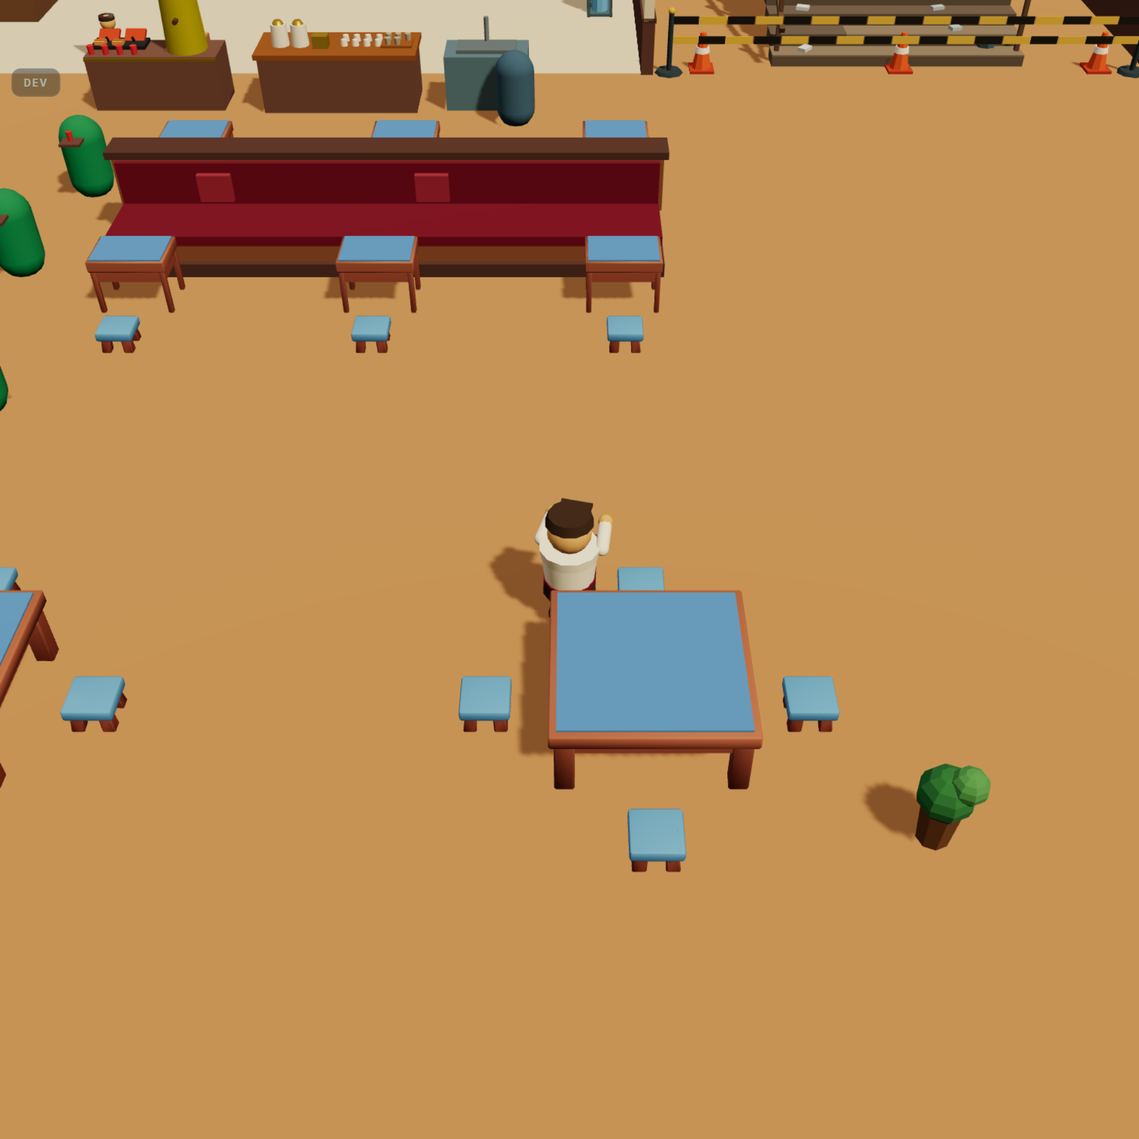
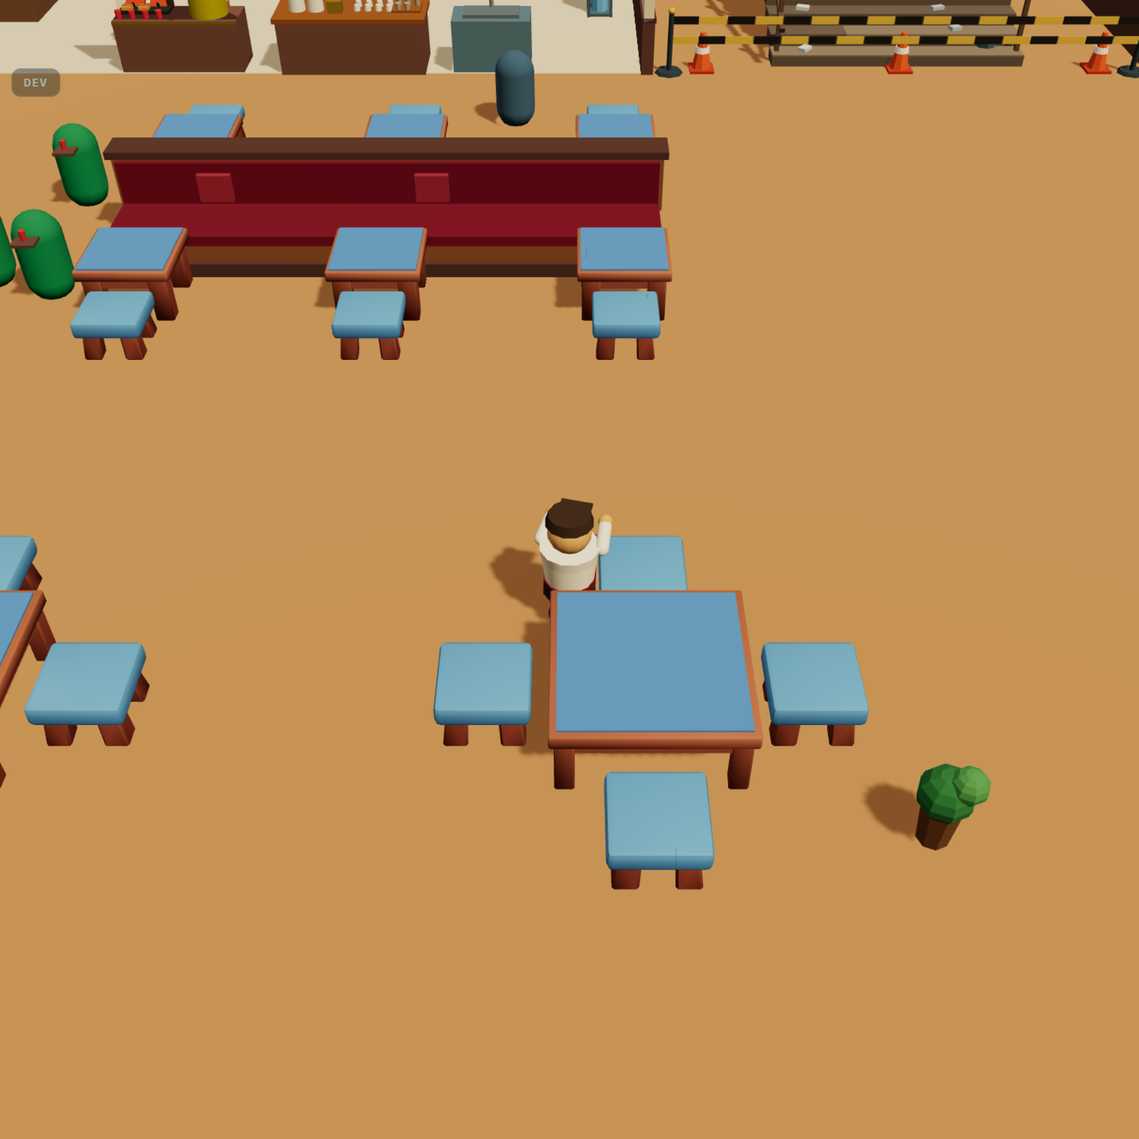
D-074: ikili masa KARE, tabure orani maketten, mutfak esyalari mutfagin icinde
Kullanici geri bildirimi (BM adim 3 kareleri uzerine):
- Ikili (banket) masa: bistro table_medium_long (0,99 x 0,70) elendi -> KARE table_small,
  kademe 1,00 (L0-L2) / 1,20 (L3+). Ust sinir banket adasinin oturak kenarindan turer
  (yari-derinlik 1,25 + masa merkezi 1,85 -> tabla yarisi en cok 0,60). deuceHalf 0,50 -> 0,60.
  Tip farki artik tablanin ORANINDA degil BOYUNDA
- Tabure olcegi 0,6 -> 1,11: maketin stool()'u referans (oturak ustu 0,30 -> 0,555, cap 0,54);
  masa D-073'te 0,795'e cikinca tabure masanin yarisi kadar alcak kalmisti. Greybox yedegi de
  maketin dort parcasina cevrildi (taban diski, ince ayak, genis oturak, minder)
- Servis kumesi mutfagin ICINE: z -8,6 -> -10,3 (tezgahin on yuzu tam bandin hattinda),
  caycinin yurume hatti tezgahin arkasina (-11,3), WAITER_STATION ayni hizada.
  ERISIM DEGISMEDI: tezgah da oyuncunun en yakin noktasi da ayni miktarda kaydi (0,85 br sabit)
- Degismez yeniden yazildi: 'servis kumesi alanin icinde' iki rolu karistiriyordu ->
  aktorun bastigi noktalar alanin ICINDE; obje govdeleri alana DEGER + pickupRadius icinde

vitest 281/281 - smoke 28/28 - tsc + eslint + build temiz

diff --git a/src/components/three/tableLook.ts b/src/components/three/tableLook.ts
@@ -16,17 +16,27 @@ import type { TableKind } from '../../config/economy.config';
 // büyük: ön çeyreğin dörtlü ÇAY masası `teaTable` **1,75 × 1,75 @ y 0,75**, şeridin ikili kafe
 // masası `cafeTable2` **1,00 × 1,00 @ y 0,75**. Oyun ikisini de ~0,9'a indirmişti (fark kayboldu).
 // Maket BİTMİŞ HÂLDİR (D-070): en üst kademe maketin ölçüsüdür, alt kademe ondan geriye türer.
-const TEA_TABLE_S: Vec3 = [1.1, 0.75, 1.1]; // table_small (native 1) → 1,10 tabla · L0-L2
+const TEA_TABLE_S: Vec3 = [1.1, 0.75, 1.1]; // table_small (native 1) → 1,10 tabla · DÖRTLÜ L0-L2
 const TEA_TABLE_M: Vec3 = [0.875, 0.75, 0.875]; // table_medium (native 2) → **1,75** · dörtlü L3+
-// table_medium_long — İKİLİNİN L3+ hâli: bistro masası, banka PARALEL uzar (0,99 × 0,70);
-// maketin `cafeTable2`'si 1,00 kare, uzun kenar birebir tutuyor. Native 3 × 1 × 2 → x 0,33 · z 0,35.
-const TEA_TABLE_L: Vec3 = [0.33, 0.75, 0.35];
+
+// İKİLİ MASA — KARE (kullanıcı 2026-09-07): *"banketlerin masaları ideal boyda olsun ama KARE
+// olsun; küçük dememin sebebi dikdörtgen olmasıydı, diğer tek masalar kadar büyük olmasın"*.
+// Önceki hâli `table_medium_long`du (0,99 × 0,70): bistro mantığı doğruydu ama dikdörtgen tabla
+// 1,75'lik dörtlünün yanında hem küçük hem çarpık okundu. İkili artık dörtlüyle AYNI asseti
+// (kare `table_small`) kullanır, yalnız daha küçük kalır — tip farkını tabla ORANI değil BOYU söyler.
+// Kademeler: L0-L2 **1,00** (maketin `cafeTable2`'si birebir) → L3+ **1,20**.
+// Üst sınırı BANKET geometrisi veriyor: adanın görsel yarı-derinliği 1,25 ve masa merkezi ondan
+// 1,85'te; tabla yarısı 0,60'ı geçerse tabla adanın oturağının ÜSTÜNE biner (layout-b32 bekçisi).
+// 1,20 hem o sınırda durur hem oranı tutar (dörtlü 1,75'i dört kişiye verir; ikiye düşen ≈ 1,24).
+const DEUCE_TABLE_S: Vec3 = [1.0, 0.75, 1.0];
+const DEUCE_TABLE_L: Vec3 = [1.2, 0.75, 1.2];
 
 // Örtü (tabla ÜSTÜ) plakası. { y: üst yüzey, hx/hz: yarı-genişlik }. Maket örtüsü tablanın
 // %92,6'sı (1,62 / 1,75) — oran her kademede korunur.
 const TEA_CLOTH_S = { y: 0.75, hx: 0.51, hz: 0.51 };
 const TEA_CLOTH_M = { y: 0.75, hx: 0.81, hz: 0.81 };
-const TEA_CLOTH_L = { y: 0.75, hx: 0.46, hz: 0.32 };
+const DEUCE_CLOTH_S = { y: 0.75, hx: 0.463, hz: 0.463 };
+const DEUCE_CLOTH_L = { y: 0.75, hx: 0.556, hz: 0.556 };
 
 export interface TableLook {
   key: 'table_small' | 'table_medium' | 'table_medium_long';
@@ -35,15 +45,17 @@ export interface TableLook {
 }
 
 /**
- * Sv4 (L3) basamağı "masa BÜYÜR" idi ve dörtlü masa için doğruydu: iki koltuk dörde çıkarken
- * tabla da büyür. Banket ikilisi dört kişilik OLMAZ (sırtında ada, karşısında tek sandalye var) —
- * o basamakta büyüyecek şeyi kaybetmesin diye tabla KARE'den BİSTROYA döner: banka paralel uzar,
- * derinliği azalır. İki tipte de L3 gözle görülür TEK bir değişimdir (D-019 okunabilirlik), ama
- * ikili masa hiçbir seviyede dört sandalye taşıyormuş gibi görünmez.
+ * Sv4 (L3) basamağı "masa BÜYÜR": iki tipte de tabla büyür, ikisi de KARE kalır. İkili masa
+ * hiçbir seviyede dörtlünün tablasını (1,75 = dört kişilik okuması) almaz — fark boyda durur:
+ * 1,00 → 1,20 ↔ 1,10 → 1,75. Böylece L3 iki tipte de gözle görülür TEK bir değişim (D-019).
  */
 export function tableLook(kind: TableKind, level: number): TableLook {
-  if (level < 3) return { key: 'table_small', scale: TEA_TABLE_S, cloth: TEA_CLOTH_S };
-  return kind === 'deuce'
-    ? { key: 'table_medium_long', scale: TEA_TABLE_L, cloth: TEA_CLOTH_L }
+  if (kind === 'deuce') {
+    return level < 3
+      ? { key: 'table_small', scale: DEUCE_TABLE_S, cloth: DEUCE_CLOTH_S }
+      : { key: 'table_small', scale: DEUCE_TABLE_L, cloth: DEUCE_CLOTH_L };
+  }
+  return level < 3
+    ? { key: 'table_small', scale: TEA_TABLE_S, cloth: TEA_CLOTH_S }
     : { key: 'table_medium', scale: TEA_TABLE_M, cloth: TEA_CLOTH_M };
 }

diff --git a/src/game/layout.ts b/src/game/layout.ts
@@ -418,12 +418,23 @@ const PLACE_LEFT_WALL: ServicePlace = {
  */
 const PLACE_BACK_BAND: ServicePlace = {
   areaIndex: 2,
-  station: [-13.0, 0, -8.6],
+  /*
+   * MUTFAK EŞYALARI MUTFAĞIN İÇİNDE (kullanıcı 2026-09-07: *"mutfak eşyaları şu an mutfak
+   * dışında, onları da koy"*). BM adım 3'e kadar bant katı bir kütleydi, servis kümesi de
+   * onun 1,2 br ÖNÜNDE salonun zemininde duruyordu (z = −8,6). Bant maketin odalarına dönünce
+   * o küme mutfağın dışında kalmış oldu.
+   * Küme 1,70 geri alındı: tezgâhın ÖN YÜZÜ artık tam bandın hattında (z = −9,8 = −10,3 + 0,5),
+   * yani maketin kurgusu — *"semaver ve bardaklar müşterinin gördüğü yerde, hazırlık arkada"*.
+   * ERİŞİM DEĞİŞMEDİ: hem tezgâh hem oyuncunun durabildiği en yakın nokta aynı miktarda kaydı,
+   * aradaki 0,85 br sabit (`serving.pickupRadius` 1,6). Çaycının yürüme hattı da tezgâhın
+   * ARKASINA, mutfağın içine geçti.
+   */
+  station: [-13.0, 0, -10.3],
   rot: 0,
   half: [1.6, 0.5],
-  pickup: [-13.0, 0, -7.6],
+  pickup: [-13.0, 0, -9.3],
   upgradeSpot: [-15.8, 0, -8.0],
-  dish: [-7.4, 0, -8.6],
+  dish: [-7.4, 0, -10.3],
   dishRot: 0,
   dishHalf: [1.0, 0.5],
   /* BOŞTA BEKLEME NOKTALARI (B6a'da taşındı). Eski değerler (−11,0 / −7,2) ve (−5,6 / −7,2)
@@ -441,7 +452,7 @@ const PLACE_BACK_BAND: ServicePlace = {
      yükseltme noktasına 1,4 br'den yakın olamaz. */
   waiterHome: [-14.6, 0, -6.6],
   dishwasherHome: [-6.9, 0, -7.75],
-  staffWalk: { a: [-14.6, 0, -9.6], b: [-11.4, 0, -9.6], face: 0 },
+  staffWalk: { a: [-14.6, 0, -11.3], b: [-11.4, 0, -11.3], face: 0 },
 };
 
 /**
@@ -456,7 +467,7 @@ const PLACE_BACK_BAND: ServicePlace = {
  * Arka bant açılmadan (areasOpen < 3) ortada durmaz.
  */
 export const WAITER_STATION = {
-  pos: [-9.9, 0, -8.6] as Vec3,
+  pos: [-9.9, 0, -10.3] as Vec3, // tezgâhla AYNI hizada (BM adım 3: küme mutfağın içine geçti)
   half: [1.3, 0.5] as readonly [number, number],
   rot: 0,
 } as const;
@@ -564,7 +575,7 @@ export const LAYOUT = {
   // BM adım 2 (D-073): iki mobilya dili, iki footprint. Dörtlü ÇAY masası maketin `teaTable`'ı
   // (1,75 → yarı 0,875); şeridin İKİLİ kafe masası `cafeTable2` (1,00 → yarı 0,50).
   tableHalf: [0.875, 0.875] as [number, number], // dörtlü (four) — REACH_TABLE bundan türer
-  deuceHalf: [0.5, 0.5] as [number, number], // ikili (deuce) — banket adasının masası
+  deuceHalf: [0.6, 0.6] as [number, number], // ikili (deuce) — kare 1,20 (L3+); banket adasının masası
   chairHalf: [0.3, 0.3] as [number, number], // tabure (maket yarıçapı 0,27) + oturan müşteri
   // Sandalye ofsetleri (Y2 tek kaynak): Tables.tsx görsel sandalyeyi, store koltuk pozisyonunu
   // (ALL_TABLES.seats) AYNI listeden türetir — görsel sandalye = oturulabilir koltuk.

diff --git a/tests/table-b5a.test.ts b/tests/table-b5a.test.ts
@@ -111,20 +111,35 @@ describe('B5a — MASA TİPİ: dörtlü küme ↔ banket ikilisi', () => {
     expect(seats).toBe(56);
   });
 
-  it('GÖRÜNÜŞ: L3’te dörtlü BÜYÜR (kare), ikili BİSTROYA döner (uzun) — aynı basamak, farklı geometri', () => {
+  it('GÖRÜNÜŞ: L3’te iki tip de BÜYÜR ve ikisi de KARE kalır — fark tablanın ORANINDA değil BOYUNDA', () => {
+    // Kullanıcı 2026-09-07: *"banketlerin masaları ideal boyda olsun ama KARE olsun; küçük
+    // dememin sebebi dikdörtgen olmasıydı, diğer tek masalar kadar büyük olmasın"*.
+    // Eski kurgu ikiliyi L3'te bistroya (0,99 × 0,70) çeviriyordu; dikdörtgen tabla 1,75'lik
+    // dörtlünün yanında hem küçük hem çarpık okundu.
     for (const k of ['four', 'deuce'] as const) {
       expect(tableLook(k, 0).key).toBe('table_small');
       expect(tableLook(k, 2).key).toBe('table_small');
+      // HER seviyede kare: örtü yarı-ölçüleri eşit, tabla ölçeği x = z.
+      for (const l of [0, 2, 3, 4]) {
+        const look = tableLook(k, l);
+        expect(look.cloth.hx, `${k} L${l} örtü`).toBeCloseTo(look.cloth.hz, 6);
+        expect(look.scale[0], `${k} L${l} tabla`).toBeCloseTo(look.scale[2], 6);
+      }
     }
     expect(tableLook('four', 3).key).toBe('table_medium');
-    expect(tableLook('deuce', 3).key).toBe('table_medium_long');
-    // İkili masa hiçbir seviyede kare-büyük tablayı (dört kişilik okuması) almaz.
+    // İkili masa hiçbir seviyede dörtlünün tablasını (1,75 = dört kişilik okuması) almaz.
     for (const l of [0, 1, 2, 3, 4]) expect(tableLook('deuce', l).key).not.toBe('table_medium');
-    // Bistro tablası banka PARALEL uzar: eni derinliğinden büyük.
-    const long = tableLook('deuce', 3);
-    expect(long.cloth.hx).toBeGreaterThan(long.cloth.hz);
-    // ...ve `LAYOUT.tableHalf` collision kutusunun dışına taşmaz (native table_medium_long eni 3).
-    expect(long.scale[0] * 3).toBeLessThanOrEqual(LAYOUT.tableHalf[0] * 2);
+    // Kademeler: ikili 1,00 → 1,20 · dörtlü 1,10 → 1,75. İkili her seviyede dörtlüden KÜÇÜK,
+    // ama L3'te kendi L0'ından büyük (basamak gözle görülür).
+    const side = (k: 'four' | 'deuce', l: number) => tableLook(k, l).scale[0] * (tableLook(k, l).key === 'table_medium' ? 2 : 1);
+    expect(side('deuce', 0)).toBeCloseTo(1.0, 6);
+    expect(side('deuce', 3)).toBeCloseTo(1.2, 6);
+    expect(side('four', 0)).toBeCloseTo(1.1, 6);
+    expect(side('four', 3)).toBeCloseTo(1.75, 6);
+    for (const l of [0, 3]) expect(side('deuce', l)).toBeLessThan(side('four', l));
+    expect(side('deuce', 3)).toBeGreaterThan(side('deuce', 0));
+    // İkilinin tablası BANKET adasının oturağının üstüne binmez (collision yarısı = tabla yarısı).
+    expect(LAYOUT.deuceHalf[0]).toBeCloseTo(side('deuce', 3) / 2, 6);
   });
 });
 

diff --git a/src/components/three/Tables.tsx b/src/components/three/Tables.tsx
@@ -24,17 +24,33 @@ export { tableLook } from './tableLook';
 //   L4 #7 chair_C. Örtü L2'den. Masa L0-L2 TEKLİ küçük (sandalyeler ORTALI), L3'te 4 kişilik uzun.
 //   Renkler (mavi asset minderleri) sonra ayarlanacak.
 const KAY = '/assets/models/kaykit-furniture-bits/';
-const STOOL_S = 0.6; // chair_stool_wood
+// TABURE ÖLÇEĞİ — kullanıcı 2026-09-07: *"diğer masaların tabureleri orantı olarak çok küçük"*.
+// Sebep ölçüldü: KayKit `chair_stool` native 0,75 × **0,50** (en × yükseklik); 0,6 ölçekte
+// oturak yüksekliği **0,30** kalıyordu. Masa D-073'te 1,75 × 0,75'e büyümüş, tablanın üstü
+// **0,795**'e çıkmıştı → oturakla tabla arası 0,50, yani tabure masanın yarısı kadar alçak.
+// Referans maketin `stool()`'u: oturak üstü **0,555**, çapı 0,54. Ölçek buradan türer:
+// 0,555 / 0,50 = **1,11** → tabure 0,83 × 0,555; tabla üstüyle arası 0,24 (gerçek tabure oranı).
+const STOOL_S = 1.11; // chair_stool / chair_stool_wood — maketin oturak yüksekliğine (0,555) kilitli
 // Tabure (gerçek kıraathane formu): silindir gövde + kırmızı minder. Koltuk kutusu emekli.
 function Stool({ x, z }: { x: number; z: number }) {
   return (
     <group position={[x, 0, z]}>
-      <mesh castShadow position={[0, 0.21, 0]}>
-        <cylinderGeometry args={[0.17, 0.2, 0.42, 10]} />
+      {/* Maketin `stool()`'u birebir: taban diski · ince ayak · geniş oturak · minder.
+          Oturak üstü 0,555 (tabla üstü 0,795 ile arası 0,24), çap 0,54. */}
+      <mesh castShadow position={[0, 0.03, 0]}>
+        <cylinderGeometry args={[0.23, 0.23, 0.04, 10]} />
+        <meshStandardMaterial color={PALETTE.stool} />
+      </mesh>
+      <mesh castShadow position={[0, 0.22, 0]}>
+        <cylinderGeometry args={[0.07, 0.07, 0.42, 8]} />
         <meshStandardMaterial color={PALETTE.stool} />
       </mesh>
       <mesh castShadow position={[0, 0.45, 0]}>
-        <cylinderGeometry args={[0.19, 0.19, 0.07, 10]} />
+        <cylinderGeometry args={[0.27, 0.25, 0.11, 10]} />
+        <meshStandardMaterial color={PALETTE.stool} />
+      </mesh>
+      <mesh castShadow position={[0, 0.53, 0]}>
+        <cylinderGeometry args={[0.25, 0.25, 0.05, 10]} />
         <meshStandardMaterial color={PALETTE.stoolCushion} />
       </mesh>
     </group>

diff --git a/tests/layout-b31.test.ts b/tests/layout-b31.test.ts
@@ -23,6 +23,7 @@ import {
   MAX_SERVICES,
 } from '../src/game/store';
 import { clampToOpenAreas, getNavGrid, REACH_TABLE } from '../src/game/layout';
+import { economyConfig } from '../src/config/economy.config';
 import { findNavPath } from '../src/game/nav';
 
 const SP = (areasOpen: number) => servicePlace(areasOpen);
@@ -121,11 +122,28 @@ describe('B3-1 — servis 3. Alan açılınca ARKA BANDA taşınır (D-062)', ()
       expect(openServices(areasOpen)).toEqual([THE_SERVICE]);
       expect(serviceInArea(sp.areaIndex, areasOpen)).toBe(THE_SERVICE);
       const ab = LAYOUT.areaBounds[sp.areaIndex];
-      for (const pt of [sp.station, sp.dish, sp.pickup, sp.upgradeSpot, sp.waiterHome, sp.dishwasherHome]) {
+      // AKTÖRÜN BASTIĞI noktalar alanın İÇİNDE olmak zorunda (yürünemeyen yerde beklenemez).
+      for (const pt of [sp.pickup, sp.upgradeSpot, sp.waiterHome, sp.dishwasherHome]) {
         expect(pt[0]).toBeGreaterThanOrEqual(ab.minX);
         expect(pt[0]).toBeLessThanOrEqual(ab.maxX);
         expect(pt[2]).toBeGreaterThanOrEqual(ab.minZ);
         expect(pt[2]).toBeLessThanOrEqual(ab.maxZ);
+      }
+      // OBJE GÖVDELERİ (tezgâh · bulaşık) alana DEĞMEK zorunda, içinde durmak zorunda değil:
+      // BM adım 3'te küme mutfağın içine geçti, ön yüzü bandın hattında kaldı — bir tezgâhın
+      // gövdesinin duvarın içinde olması normaldir, ERİŞİLEMEZ olması değil. Asıl kural bu:
+      // alanın tezgâha en yakın noktasından tezgâh `serving.pickupRadius` içinde kalmalı.
+      for (const [c, h] of [
+        [sp.station, sp.half],
+        [sp.dish, sp.dishHalf],
+      ] as const) {
+        expect(c[0] + h[0]).toBeGreaterThanOrEqual(ab.minX);
+        expect(c[0] - h[0]).toBeLessThanOrEqual(ab.maxX);
+        expect(c[2] + h[1]).toBeGreaterThanOrEqual(ab.minZ);
+        expect(c[2] - h[1]).toBeLessThanOrEqual(ab.maxZ);
+        const nx = Math.max(ab.minX, Math.min(ab.maxX, c[0]));
+        const nz = Math.max(ab.minZ, Math.min(ab.maxZ, c[2]));
+        expect(Math.hypot(nx - c[0], nz - c[2])).toBeLessThan(economyConfig.serving.pickupRadius);
       }
     }
   });

diff --git a/tests/logic.test.ts b/tests/logic.test.ts
@@ -3399,11 +3399,28 @@ describe('Faz B1 — dünya modeli: ALAN · SERVİS · MASA · ODA ayrışması'
       // Servisin durduğu alan o an AÇIK olmak zorunda (yoksa erişilemez bir tezgâh olurdu).
       expect(sp.areaIndex).toBeLessThan(areasOpen);
       const ab = LAYOUT.areaBounds[sp.areaIndex];
-      for (const pt of [sp.station, sp.dish, sp.pickup, sp.upgradeSpot, sp.waiterHome, sp.dishwasherHome]) {
+      // AKTÖRÜN BASTIĞI noktalar alanın İÇİNDE olmak zorunda (yürünemeyen yerde beklenemez).
+      for (const pt of [sp.pickup, sp.upgradeSpot, sp.waiterHome, sp.dishwasherHome]) {
         expect(pt[0]).toBeGreaterThanOrEqual(ab.minX);
         expect(pt[0]).toBeLessThanOrEqual(ab.maxX);
         expect(pt[2]).toBeGreaterThanOrEqual(ab.minZ);
         expect(pt[2]).toBeLessThanOrEqual(ab.maxZ);
+      }
+      // OBJE GÖVDELERİ (tezgâh · bulaşık) alana DEĞMEK zorunda, içinde durmak zorunda değil:
+      // BM adım 3'te küme mutfağın içine geçti, ön yüzü bandın hattında kaldı — bir tezgâhın
+      // gövdesinin duvarın içinde olması normaldir, ERİŞİLEMEZ olması değil. Asıl kural bu:
+      // alanın tezgâha en yakın noktasından tezgâh `serving.pickupRadius` içinde kalmalı.
+      for (const [c, h] of [
+        [sp.station, sp.half],
+        [sp.dish, sp.dishHalf],
+      ] as const) {
+        expect(c[0] + h[0]).toBeGreaterThanOrEqual(ab.minX);
+        expect(c[0] - h[0]).toBeLessThanOrEqual(ab.maxX);
+        expect(c[2] + h[1]).toBeGreaterThanOrEqual(ab.minZ);
+        expect(c[2] - h[1]).toBeLessThanOrEqual(ab.maxZ);
+        const nx = Math.max(ab.minX, Math.min(ab.maxX, c[0]));
+        const nz = Math.max(ab.minZ, Math.min(ab.maxZ, c[2]));
+        expect(Math.hypot(nx - c[0], nz - c[2])).toBeLessThan(economyConfig.serving.pickupRadius);
       }
     }
   });

diff --git a/memory-bank/decisions.md b/memory-bank/decisions.md
@@ -1806,3 +1806,51 @@ footprint'ten türer · banket-masa çakışması ikili footprint'le ölçülür
 'ceviz'e taşındı) + "salon zemini DÜZ" testi eklendi. **280/280 yeşil, tsc temiz.**
 
 **Rapor:** `docs/olcu-plan-karar.html` — https://claude.ai/code/artifact/a17055c1-de75-4017-9036-54a893c1992b
+
+---
+
+## D-074 — İKİLİ MASA KARE · TABURE ORANI MAKETTEN · MUTFAK EŞYALARI MUTFAĞIN İÇİNDE (2026-09-08 gece)
+
+**Kullanıcı (BM adım 3 kareleri geldikten sonra):** *"banketlerin masaları küçük… o diğer masaların
+tabureleri orantı olarak çok küçük geldi gözüme. ek olarak mutfak eşyaları şu an mutfak dışında,
+onları da koy… banketlerin masaları ideal boyda olsun ama KARE olsun; küçük dememin sebebi
+dikdörtgen olmasıydı, diğer tek masalar kadar büyük olmasın."*
+
+### 1 · İkili (banket) masa KARE
+`table_medium_long` (0,99 × 0,70 bistro) elendi. B5a'nın gerekçesi doğruydu — ikili masa dört
+kişilik okunmamalı — ama çözümü yanlış kanaldan veriyordu: farkı tablanın ORANIYLA anlatıyordu ve
+dikdörtgen tabla 1,75'lik dörtlünün yanında hem küçük hem çarpık okunuyordu. Fark artık BOYDA:
+
+| | L0-L2 | L3+ |
+|---|---|---|
+| dörtlü | 1,10 | **1,75** (maketin `teaTable`'ı) |
+| ikili | **1,00** (maketin `cafeTable2`'si) | **1,20** |
+
+1,20'nin üst sınırı geometriden: banket adasının görsel yarı-derinliği 1,25, masa merkezi ondan
+1,85'te → tabla yarısı 0,60'ı geçerse tabla adanın oturağının ÜSTÜNE biner (`layout-b32` bekçisi).
+`deuceHalf` 0,50 → **0,60**.
+
+### 2 · Tabure oranı maketin `stool()`'undan
+KayKit `chair_stool` native 0,75 × **0,50**; ölçek 0,6'da oturak yüksekliği **0,30** kalıyordu.
+Masa D-073'te 0,75'e çıkıp tablanın üstü 0,795'e gelince tabure masanın yarısı kadar alçak kaldı.
+Maketin `stool()`'u: oturak üstü **0,555**, çap 0,54. Ölçek buradan kilitlendi: 0,555 / 0,50 =
+**1,11**. Greybox yedeği de maketin dört parçasına (taban diski · ince ayak · geniş oturak · minder)
+çevrildi — asset yoksa silüet aynı kalsın.
+
+### 3 · Servis kümesi mutfağın İÇİNE
+Bant katı kütleyken servis kümesi onun 1,2 br önünde, salonun zemininde duruyordu (z = −8,6).
+BM adım 3 bandı odalara çevirince küme mutfağın DIŞINDA kaldı. Küme 1,70 geri alındı
+(z = −10,3): tezgâhın ön yüzü tam bandın hattında (−9,8) — maketin kurgusu, *"semaver ve bardaklar
+müşterinin gördüğü yerde, hazırlık arkada"*. Çaycının yürüme hattı tezgâhın arkasına geçti
+(−9,6 → −11,3). `WAITER_STATION` tezgâhla aynı hizada kaldı.
+**ERİŞİM DEĞİŞMEDİ:** hem tezgâh hem oyuncunun durabildiği en yakın nokta aynı miktarda kaydı,
+aradaki 0,85 br sabit (`serving.pickupRadius` 1,6).
+
+**Bunun açtığı test sorusu:** "servis kümesi AÇIK bir alanın İÇİNDE" değişmezi iki farklı rolü tek
+kurala bağlıyordu. Ayrıldı: **aktörün bastığı noktalar** (pickup · yükseltme · personel köşeleri)
+alanın içinde olmak zorunda; **obje gövdeleri** (tezgâh · bulaşık) alana DEĞMEK zorunda ve alanın
+en yakın noktasından `pickupRadius` içinde kalmak zorunda. Bir tezgâhın gövdesinin duvarın içinde
+olması normaldir, ERİŞİLEMEZ olması değil.
+
+**Testler:** 281/281 yeşil (3'ü yeniden yazıldı, biri "ikili her seviyede KARE" iddiasıyla
+güçlendirildi). tsc + eslint + build temiz, smoke 28/28.

diff --git a/memory-bank/activeContext.md b/memory-bank/activeContext.md
@@ -59,6 +59,20 @@ DEV kolu: `window.__devCam({ fov, distMul })` · kareler `node tools/shot-fov.mj
 - Önerim: **50 kalsın** — maketin 34'ü bir gözlem aracının tercihi; D-072'nin kuralı ölçüyü
   DONDURMAK, ölçülmemiş bir kazanç için değiştirmek değil.
 
+### Kullanıcı geri bildirimi ✅ (D-074 — aynı gece uygulandı)
+*"banketlerin masaları küçük… tabureler orantı olarak çok küçük… mutfak eşyaları mutfak dışında…
+banket masaları ideal boyda ama KARE olsun"*
+1. **İkili masa kare:** bistro (0,99 × 0,70) elendi → 1,00 (L0-L2) / **1,20** (L3+). Üst sınır
+   geometriden: banket adasının görsel yarı-derinliği 1,25, masa merkezi 1,85 → tabla yarısı
+   0,60'ı geçerse tabla oturağın üstüne biner. `deuceHalf` 0,60.
+2. **Tabure ölçeği 0,6 → 1,11:** maketin `stool()`'u referans (oturak üstü 0,555, çap 0,54);
+   eskiden oturak 0,30'daydı, tabla üstü 0,795 → tabure masanın yarısı kadar alçaktı.
+3. **Servis kümesi mutfağın içine:** z −8,6 → −10,3 (tezgâhın ön yüzü bandın hattında),
+   çaycı hattı −11,3. Erişim sabit (0,85 br). `WAITER_STATION` da aynı hizada.
+4. **Değişmez ayrıldı:** aktörün bastığı noktalar alanın İÇİNDE · obje gövdeleri alana DEĞER
+   ve alanın en yakın noktasından `serving.pickupRadius` içinde kalır.
+**281/281 · smoke 28/28 · tsc + eslint + build temiz.** Kareler yenilendi (`bmm-*`).
+
 ### BM adım 3 ✅ (arka bant + odalar)
 Bant kütle değil **maketin odaları**: bina kabuğu (`BAND_SHELL`, 3,2, salonun duvarıyla aynı bileşen)
 + ara duvarlar 2,2 (x ∓4,6) + servis köşesi (fayans zemin · cezve ocağı · tezgâh · raflar · bulaşık ·

diff --git a/memory-bank/progress.md b/memory-bank/progress.md
@@ -1748,6 +1748,17 @@ tek yönlü sıra. Ölçü hedefi kullanıcı kararıyla **A**: kat 34 × 34, du
     yeniden ölçülmeli. Gölge kamerası (ortografik ±30) etkilenmiyor.
   - **Önerilen: fov 50 KALSIN** (maketin 34'ü bir gözlem aracının tercihi; D-072'nin kuralı ölçüyü
     dondurmak, ölçülmemiş bir kazanç için değiştirmek değil). Karar kullanıcının.
+- ✅ **BM adım 3 düzeltmeleri (D-074, kullanıcı geri bildirimi):**
+  - **İkili (banket) masa KARE oldu:** bistro `table_medium_long` (0,99 × 0,70) elendi; kademe
+    1,00 → **1,20** (üst sınırı banket adasının oturak kenarı verir). Tip farkı artık tablanın
+    oranında değil BOYUNDA: ikili 1,00/1,20 ↔ dörtlü 1,10/1,75. `deuceHalf` 0,50 → 0,60.
+  - **Tabure oranı maketin `stool()`'una kilitlendi:** ölçek 0,6 → **1,11** (oturak üstü 0,30 →
+    **0,555**, maketin sayısı). Greybox yedeği de maketin dört parçasına çevrildi.
+  - **Servis kümesi mutfağın İÇİNE:** z −8,6 → **−10,3**, tezgâhın ön yüzü tam bandın hattında;
+    çaycının yürüme hattı tezgâhın arkasına (−11,3). Erişim değişmedi (0,85 br sabit).
+  - **Değişmez yeniden yazıldı:** "servis kümesi alanın içinde" iki rolü karıştırıyordu →
+    aktörün bastığı noktalar alanın İÇİNDE · obje gövdeleri alana DEĞER + `pickupRadius` içinde.
+  - **vitest 281/281 · smoke 28/28 · tsc + eslint + build temiz.**
 - ⏳ İki karar (bandın açılması · fov) onaylanınca **DONDURMA + maket arşiv damgası**, sonra
   `simulate.ts` TEK KEZ yeniden ölçülür.
 - **Rapor:** `docs/bm-adim3-4-bant-kamera.html` →
